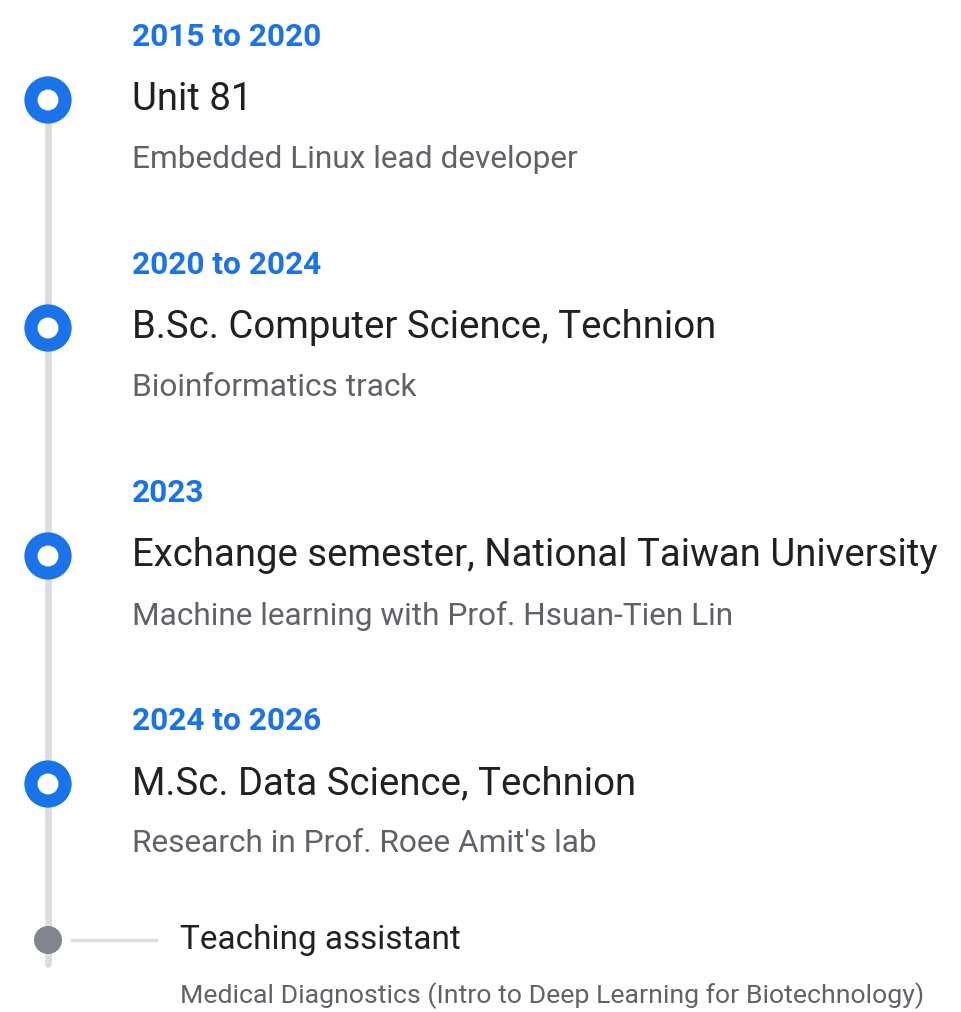
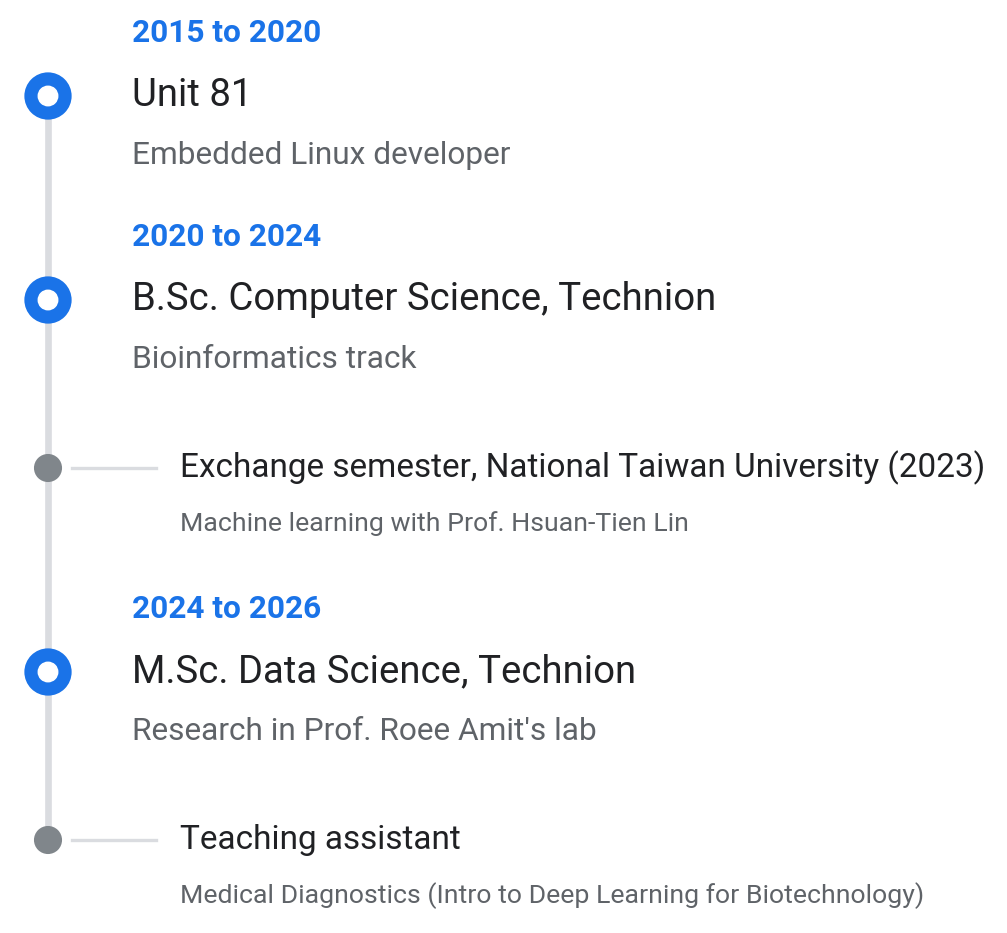
Decks: Welcome section, TODO links under the menu, timeline sub-entries

diff --git a/slides/01_cnn.html b/slides/01_cnn.html
@@ -138,6 +138,7 @@
 <nav role="doc-toc"> 
 <h2 id="toc-title">Table of contents</h2>
 <ul>
+<li><a href="#/welcome" id="/toc-welcome">0 Welcome</a></li>
 <li><a href="#/the-task" id="/toc-the-task">1 The task</a></li>
 <li><a href="#/learning-from-examples" id="/toc-learning-from-examples">2 Learning from examples</a></li>
 <li><a href="#/testing-a-model" id="/toc-testing-a-model">3 Testing a model</a></li>
@@ -146,13 +147,13 @@
 </ul>
 </nav>
 </section>
-<section id="the-task" class="title-slide slide level1 center" data-name="Task">
-<h1>1 The task</h1>
+<section id="welcome" class="title-slide slide level1 center" data-name="Welcome">
+<h1>0 Welcome</h1>
 
 </section>
 
 <section id="about-me" class="slide level2">
-<h2>1.1 About me</h2>
+<h2>0.1 About me</h2>
 <div class="columns">
 <div class="column" style="width:58%;">
 <p><img data-src="assets/custom/timeline.png" height="680"></p>
@@ -163,7 +164,7 @@
 
 </section>
 <section id="my-research" class="slide level2">
-<h2>1.2 My research</h2>
+<h2>0.2 My research</h2>
 <p><strong>Machine learning for molecular design</strong>: from a sequence to how it binds</p>
 <div class="columns">
 <div class="column" style="width:42%;">
@@ -176,7 +177,7 @@
 
 </section>
 <section id="goals" class="slide level2">
-<h2>1.3 Goals</h2>
+<h2>0.3 Goals</h2>
 <div class="goals">
 <div class="columns">
 <div class="column" style="width:50%;">
@@ -200,7 +201,7 @@
 
 </section>
 <section id="what-you-need" class="slide level2">
-<h2>1.4 What you need</h2>
+<h2>0.4 What you need</h2>
 <div class="columns">
 <div class="column" style="width:58%;">
 <ul>
@@ -214,7 +215,7 @@
 
 </section>
 <section id="today" class="slide level2">
-<h2>1.5 Today</h2>
+<h2>0.5 Today</h2>
 <table class="caption-top">
 <colgroup>
 <col style="width: 33%">
@@ -263,8 +264,13 @@
 </table>
 
 </section>
+<section id="the-task" class="title-slide slide level1 center" data-name="Task">
+<h1>1 The task</h1>
+
+</section>
+
 <section id="rna-and-ago2" class="slide level2">
-<h2>1.6 RNA and AGO2</h2>
+<h2>1.1 RNA and AGO2</h2>
 <div class="r-stack">
 <p><img data-src="assets/custom/bio_flow_base.png" height="509"></p>
 <p><img data-src="assets/custom/bio_flow_ago2.png" class="fragment" height="509"></p>
@@ -272,7 +278,7 @@
 
 </section>
 <section id="the-data" class="slide level2">
-<h2>1.7 The data</h2>
+<h2>1.2 The data</h2>
 <ul>
 <li><strong>Bound</strong>: 48,095 sites measured by CLIP-seq, an experiment that captures the RNA a protein binds. <strong>Unbound</strong>: 44,251 random positions in the same genes</li>
 <li>The 40-letter measured site sits at letters 150 to 190</li>
@@ -574,7 +580,7 @@
 
 </section>
 
-<section id="one-hot-encoding-todo-1" class="slide level2">
+<section id="one-hot-encoding-todo-1" class="slide level2" data-todo="TODO-1">
 <h2>4.1 One-hot encoding (TODO-1)</h2>
 <ul>
 <li>One column per letter, with a 1 in its row; padding columns of 0.25 up to 501</li>
@@ -630,7 +636,7 @@
 </div>
 
 </section>
-<section id="build-your-network-todo-2" class="slide level2">
+<section id="build-your-network-todo-2" class="slide level2" data-todo="TODO-2">
 <h2>4.6 Build your network (TODO-2)</h2>
 
 <img data-src="assets/custom/cnn_template.png" class="quarto-figure quarto-figure-center r-stretch" style="width:100.0%">
@@ -645,7 +651,7 @@
 </div>
 
 </section>
-<section id="the-training-step-and-the-evaluation-todo-3" class="slide level2">
+<section id="the-training-step-and-the-evaluation-todo-3" class="slide level2" data-todo="TODO-3">
 <h2>4.8 The training step and the evaluation (TODO-3)</h2>
 <div class="quarto-figure quarto-figure-center">
 <figure>
@@ -677,7 +683,7 @@
 </div>
 
 </section>
-<section id="filter-0-of-our-cnn-todo-4" class="slide level2">
+<section id="filter-0-of-our-cnn-todo-4" class="slide level2" data-todo="TODO-4">
 <h2>5.3 Filter 0 of our CNN (TODO-4)</h2>
 <div class="quarto-figure quarto-figure-center">
 <figure>
@@ -686,7 +692,7 @@
 </div>
 
 </section>
-<section id="test-a-logo-insert-it-into-random-rna-todo-5" class="slide level2">
+<section id="test-a-logo-insert-it-into-random-rna-todo-5" class="slide level2" data-todo="TODO-5">
 <h2>5.4 Test a logo: insert it into random RNA (TODO-5)</h2>
 <ul>
 <li>Insert one filter’s consensus 1 to 7 times. Which control shows that its pattern matters?</li>
@@ -922,6 +928,57 @@
           RevealZoom
         ]
       });
+    </script>
+    <!-- A second menu row under the section menu: one link per TODO slide (slides tagged data-todo). -->
+    <style>
+      .todo-bar { position: fixed; left: 0; right: 0; z-index: 40; display: flex; justify-content: center; gap: 10px;
+                  pointer-events: none; font-family: Roboto, sans-serif; }
+      .todo-bar a { pointer-events: auto; font-size: 12px; line-height: 1; padding: 3px 9px; border-radius: 10px;
+                    color: #1A73E8; background: #E8F0FE; text-decoration: none; }
+      .todo-bar a.active { color: #fff; background: #1A73E8; }
+      .todo-bar a:hover { background: #D2E3FC; }
+      .todo-bar a.active:hover { background: #1A73E8; }
+      .reveal[data-state~="hide-menubar"] ~ .todo-bar, body.hide-todo .todo-bar { display: none; }
+    </style>
+    <script>
+    (function () {
+      function build() {
+        var slides = Reveal.getSlides(), todos = [];
+        slides.forEach(function (s, i) {
+          var t = s.getAttribute("data-todo");
+          if (t) todos.push({ name: t, index: i });
+        });
+        if (!todos.length) return;
+        var bar = document.createElement("div");
+        bar.className = "todo-bar";
+        todos.forEach(function (t) {
+          var a = document.createElement("a");
+          a.href = "#"; a.textContent = t.name;
+          a.addEventListener("click", function (e) { e.preventDefault(); Reveal.slide(t.index); });
+          t.el = a; bar.appendChild(a);
+        });
+        document.body.appendChild(bar);
+        function place() {
+          var mb = document.querySelector(".menubar");
+          var r = mb ? mb.getBoundingClientRect() : null;
+          bar.style.top = ((r && r.height) ? r.bottom + 4 : 30) + "px";
+        }
+        function update() {
+          var cur = Reveal.getIndices().h;
+          var title = Reveal.getCurrentSlide().id === "title-slide";
+          document.body.classList.toggle("hide-todo", title);
+          todos.forEach(function (t) { t.el.classList.toggle("active", t.index === cur); });
+          place();
+        }
+        Reveal.on("slidechanged", update);
+        Reveal.on("resize", place);
+        update();
+      }
+      if (window.Reveal && Reveal.isReady && Reveal.isReady()) build();
+      else window.addEventListener("load", function () {
+        if (Reveal.isReady()) build(); else Reveal.on("ready", build);
+      });
+    })();
     </script>
     <script id="quarto-html-after-body" type="application/javascript">
       window.document.addEventListener("DOMContentLoaded", function (event) {

diff --git a/slides/03_shortcuts_and_controls.html b/slides/03_shortcuts_and_controls.html
@@ -152,7 +152,7 @@
 
 </section>
 
-<section id="the-two-classes-differ-in-composition" class="slide level2">
+<section id="the-two-classes-differ-in-composition" class="slide level2" data-todo="TODO-1">
 <h2>1.1 The two classes differ in composition</h2>
 <ul>
 <li>A <strong>shortcut</strong> is a simple property that differs between the classes in this data set, such as G+C</li>
@@ -165,7 +165,7 @@
 </div>
 
 </section>
-<section id="word-counts-a-model-without-order" class="slide level2">
+<section id="word-counts-a-model-without-order" class="slide level2" data-todo="TODO-2">
 <h2>1.2 Word counts: a model without order</h2>
 <ul>
 <li>Count every 5-letter word in a sequence: 1,024 numbers, one per possible word</li>
@@ -177,7 +177,7 @@
 </div>
 
 </section>
-<section id="the-dinucleotide-shuffle-test" class="slide level2">
+<section id="the-dinucleotide-shuffle-test" class="slide level2" data-todo="TODO-3">
 <h2>1.3 The dinucleotide shuffle test</h2>
 <ul>
 <li>A <strong>dinucleotide</strong> is a pair of neighbouring letters. The shuffle keeps every letter and dinucleotide count and scrambles everything longer, including where sites sit</li>
@@ -222,7 +222,7 @@
 </div>
 
 </section>
-<section id="lora" class="slide level2">
+<section id="lora" class="slide level2" data-todo="TODO-4">
 <h2>3.2 LoRA</h2>
 <p><strong>Low-Rank Adaptation</strong>: train a small correction to each weight matrix, keep the matrix itself</p>
 <p><span class="math display">\[W x \;\rightarrow\; (W + BA)\,x, \qquad B \in \mathbb{R}^{256 \times r},\; A \in \mathbb{R}^{r \times 256},\; r = 16\]</span></p>
@@ -585,6 +585,57 @@
           RevealZoom
         ]
       });
+    </script>
+    <!-- A second menu row under the section menu: one link per TODO slide (slides tagged data-todo). -->
+    <style>
+      .todo-bar { position: fixed; left: 0; right: 0; z-index: 40; display: flex; justify-content: center; gap: 10px;
+                  pointer-events: none; font-family: Roboto, sans-serif; }
+      .todo-bar a { pointer-events: auto; font-size: 12px; line-height: 1; padding: 3px 9px; border-radius: 10px;
+                    color: #1A73E8; background: #E8F0FE; text-decoration: none; }
+      .todo-bar a.active { color: #fff; background: #1A73E8; }
+      .todo-bar a:hover { background: #D2E3FC; }
+      .todo-bar a.active:hover { background: #1A73E8; }
+      .reveal[data-state~="hide-menubar"] ~ .todo-bar, body.hide-todo .todo-bar { display: none; }
+    </style>
+    <script>
+    (function () {
+      function build() {
+        var slides = Reveal.getSlides(), todos = [];
+        slides.forEach(function (s, i) {
+          var t = s.getAttribute("data-todo");
+          if (t) todos.push({ name: t, index: i });
+        });
+        if (!todos.length) return;
+        var bar = document.createElement("div");
+        bar.className = "todo-bar";
+        todos.forEach(function (t) {
+          var a = document.createElement("a");
+          a.href = "#"; a.textContent = t.name;
+          a.addEventListener("click", function (e) { e.preventDefault(); Reveal.slide(t.index); });
+          t.el = a; bar.appendChild(a);
+        });
+        document.body.appendChild(bar);
+        function place() {
+          var mb = document.querySelector(".menubar");
+          var r = mb ? mb.getBoundingClientRect() : null;
+          bar.style.top = ((r && r.height) ? r.bottom + 4 : 30) + "px";
+        }
+        function update() {
+          var cur = Reveal.getIndices().h;
+          var title = Reveal.getCurrentSlide().id === "title-slide";
+          document.body.classList.toggle("hide-todo", title);
+          todos.forEach(function (t) { t.el.classList.toggle("active", t.index === cur); });
+          place();
+        }
+        Reveal.on("slidechanged", update);
+        Reveal.on("resize", place);
+        update();
+      }
+      if (window.Reveal && Reveal.isReady && Reveal.isReady()) build();
+      else window.addEventListener("load", function () {
+        if (Reveal.isReady()) build(); else Reveal.on("ready", build);
+      });
+    })();
     </script>
     <script id="quarto-html-after-body" type="application/javascript">
       window.document.addEventListener("DOMContentLoaded", function (event) {

diff --git a/slides/02_foundation_models.html b/slides/02_foundation_models.html
@@ -300,7 +300,7 @@
 </div>
 
 </section>
-<section id="the-whole-pipeline-on-one-sequence" class="slide level2">
+<section id="the-whole-pipeline-on-one-sequence" class="slide level2" data-todo="TODO-1">
 <h2>4.2 The whole pipeline on one sequence</h2>
 <div class="r-stack">
 <p><img data-src="assets/custom/walk_0.png" height="720"></p>
@@ -338,7 +338,7 @@
 </div>
 
 </section>
-<section id="the-linear-probe" class="slide level2">
+<section id="the-linear-probe" class="slide level2" data-todo="TODO-2">
 <h2>5.2 The linear probe</h2>
 <ul>
 <li>Logistic regression on the 256 numbers of each sequence embedding; the language model stays frozen</li>
@@ -608,6 +608,57 @@
           RevealZoom
         ]
       });
+    </script>
+    <!-- A second menu row under the section menu: one link per TODO slide (slides tagged data-todo). -->
+    <style>
+      .todo-bar { position: fixed; left: 0; right: 0; z-index: 40; display: flex; justify-content: center; gap: 10px;
+                  pointer-events: none; font-family: Roboto, sans-serif; }
+      .todo-bar a { pointer-events: auto; font-size: 12px; line-height: 1; padding: 3px 9px; border-radius: 10px;
+                    color: #1A73E8; background: #E8F0FE; text-decoration: none; }
+      .todo-bar a.active { color: #fff; background: #1A73E8; }
+      .todo-bar a:hover { background: #D2E3FC; }
+      .todo-bar a.active:hover { background: #1A73E8; }
+      .reveal[data-state~="hide-menubar"] ~ .todo-bar, body.hide-todo .todo-bar { display: none; }
+    </style>
+    <script>
+    (function () {
+      function build() {
+        var slides = Reveal.getSlides(), todos = [];
+        slides.forEach(function (s, i) {
+          var t = s.getAttribute("data-todo");
+          if (t) todos.push({ name: t, index: i });
+        });
+        if (!todos.length) return;
+        var bar = document.createElement("div");
+        bar.className = "todo-bar";
+        todos.forEach(function (t) {
+          var a = document.createElement("a");
+          a.href = "#"; a.textContent = t.name;
+          a.addEventListener("click", function (e) { e.preventDefault(); Reveal.slide(t.index); });
+          t.el = a; bar.appendChild(a);
+        });
+        document.body.appendChild(bar);
+        function place() {
+          var mb = document.querySelector(".menubar");
+          var r = mb ? mb.getBoundingClientRect() : null;
+          bar.style.top = ((r && r.height) ? r.bottom + 4 : 30) + "px";
+        }
+        function update() {
+          var cur = Reveal.getIndices().h;
+          var title = Reveal.getCurrentSlide().id === "title-slide";
+          document.body.classList.toggle("hide-todo", title);
+          todos.forEach(function (t) { t.el.classList.toggle("active", t.index === cur); });
+          place();
+        }
+        Reveal.on("slidechanged", update);
+        Reveal.on("resize", place);
+        update();
+      }
+      if (window.Reveal && Reveal.isReady && Reveal.isReady()) build();
+      else window.addEventListener("load", function () {
+        if (Reveal.isReady()) build(); else Reveal.on("ready", build);
+      });
+    })();
     </script>
     <script id="quarto-html-after-body" type="application/javascript">
       window.document.addEventListener("DOMContentLoaded", function (event) {
